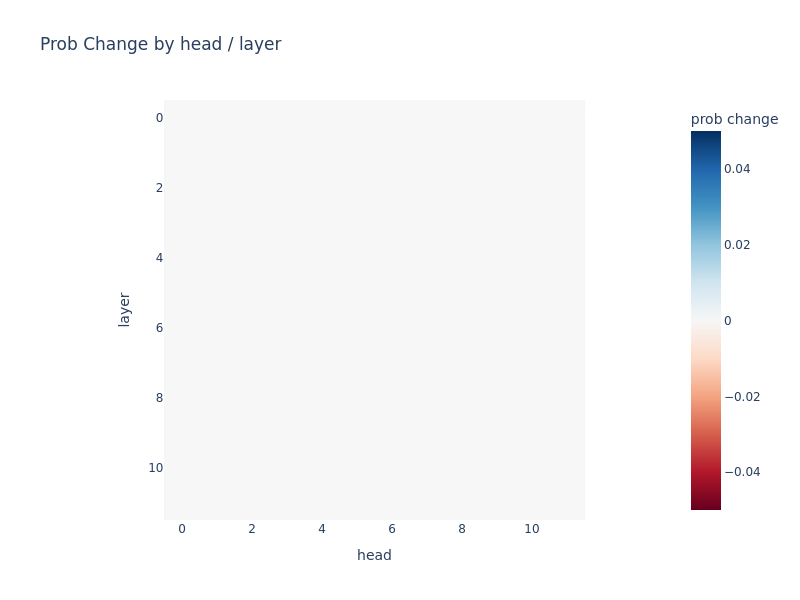
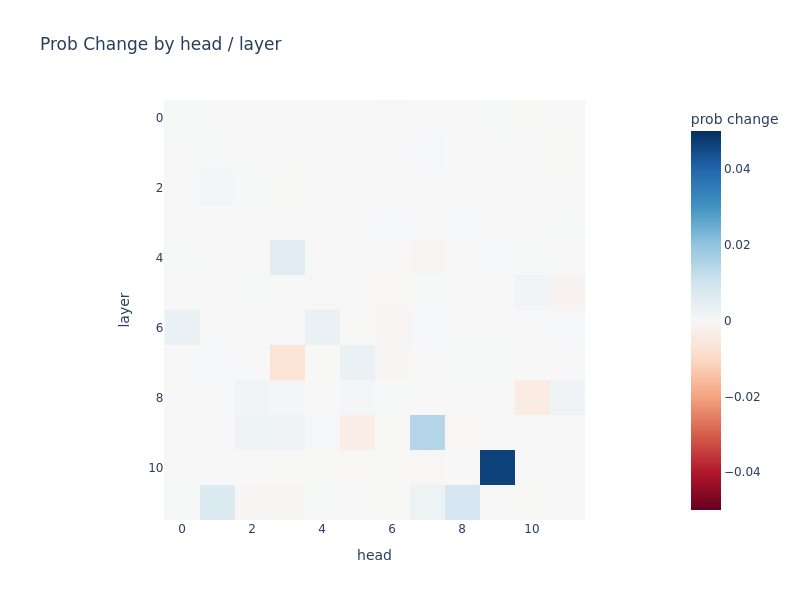
fix: Pad on the left for name results
Due to variable name lengths, we get right padding for most of them.
This invalidates our results for the name datasets, since the last
position does not correspond to the next predicted token. Default
left padding resolves this issue.

diff --git a/experiments.py b/experiments.py
@@ -25,7 +25,7 @@ ylabel = 'layer'
 all_heads = [(layer, head) for layer in range(12) for head in range(12)]
 
 model_name = 'gpt2-small'
-model = HookedTransformer.from_pretrained(model_name, device=device)
+model = HookedTransformer.from_pretrained(model_name, device=device, default_padding_side='left')
 she_token = model.tokenizer.encode(' she')[0]
 he_token = model.tokenizer.encode(' he')[0]
 
